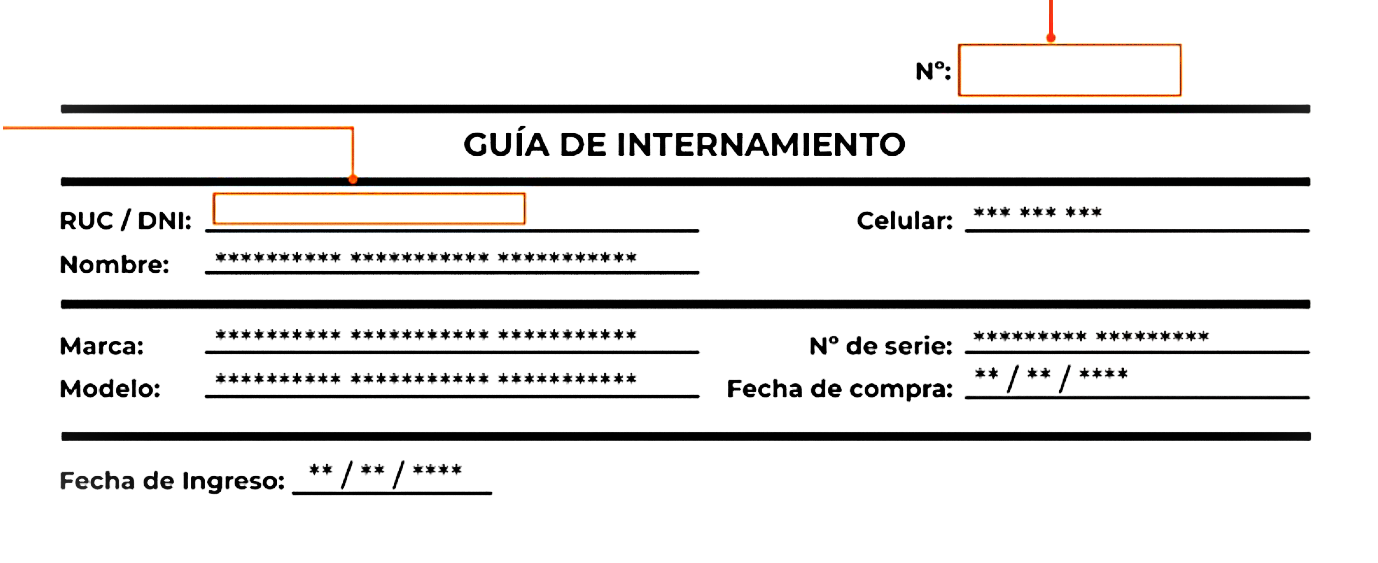
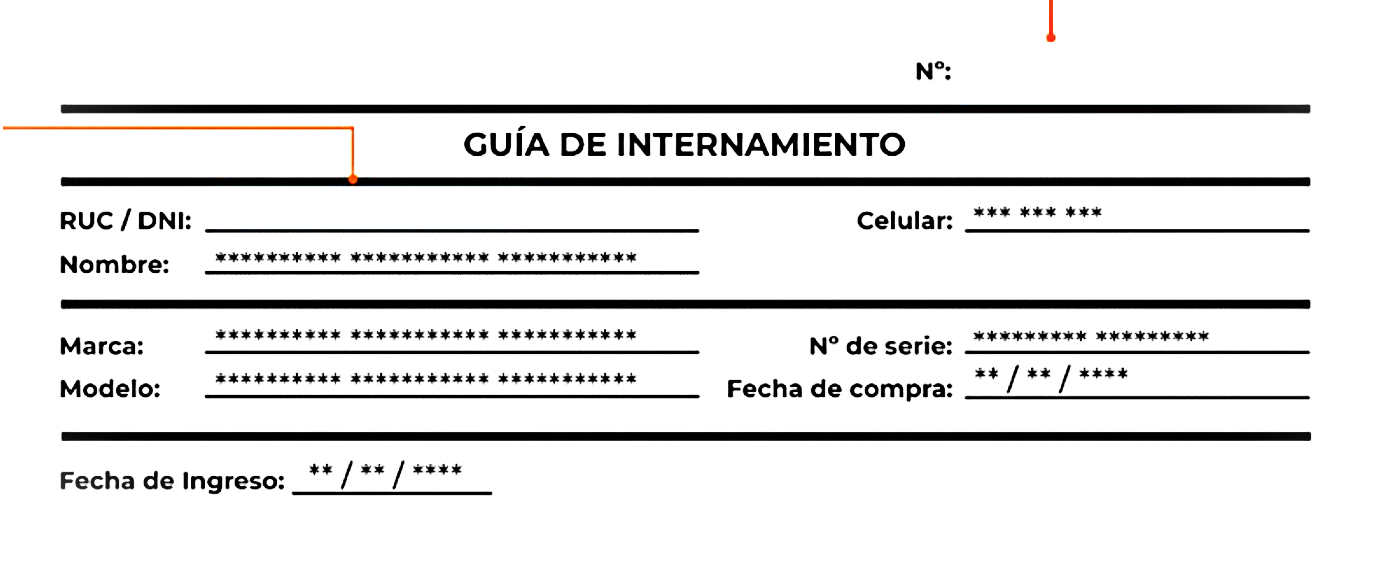
test

Changed region(s): [[0.6865, 0.0604, 0.8737, 0.1812], [0.156, 0.3321, 0.4057, 0.3623], [0.156, 0.3925, 0.3745, 0.4227]]

diff --git a/assets/css/client.css b/assets/css/client.css
@@ -519,7 +519,7 @@ body {
   display: flex;
   justify-content: center;
   align-items: center;
-  gap: 2rem;
+  gap: 1rem;
 }
 #searchOrderBox .wrapper .cons {
   margin-top: auto;
@@ -541,6 +541,9 @@ body {
 }
 #searchOrderBox .wrapper .cons p:nth-of-type(2) span {
   color: var(--primary);
+}
+#searchOrderBox .wrapper .cons p:nth-of-type(3) {
+  padding-right: 2rem;
 }
 #searchOrderBox form {
   padding: 4rem;
@@ -582,7 +585,7 @@ body {
 #searchOrderBox form input#orderNumber {
   position: absolute;
   top: 0.95rem;
-  right: 6.25rem;
+  right: 6.5rem;
   width: 8rem;
   height: 1.8rem;
   padding: 0.75rem;
